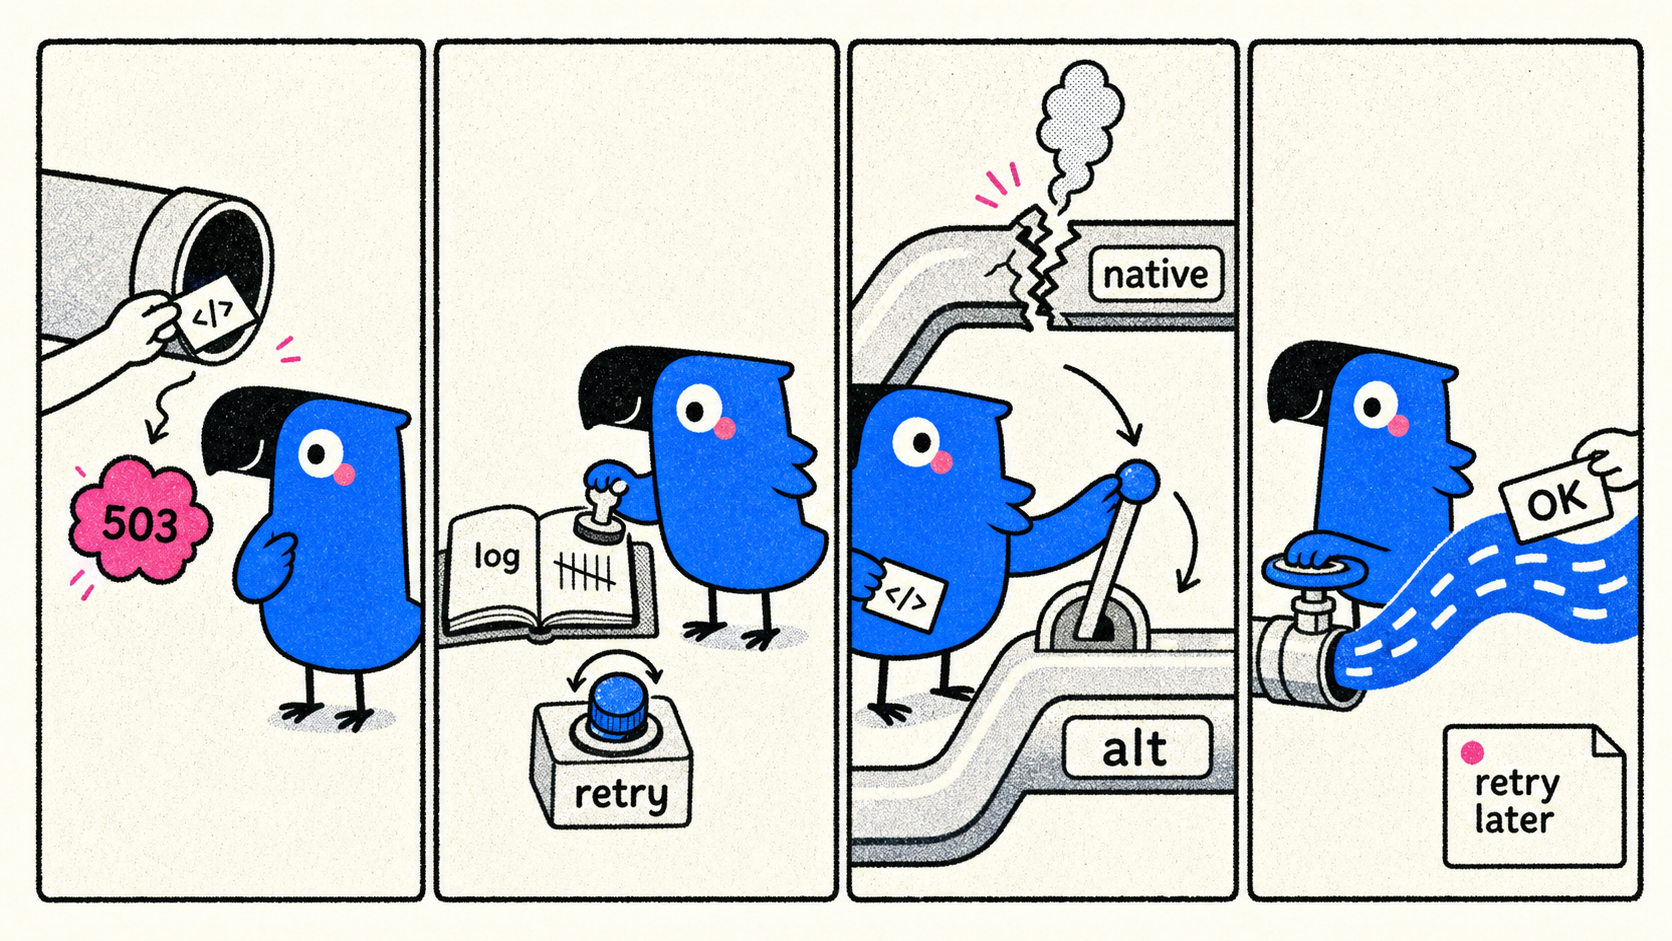
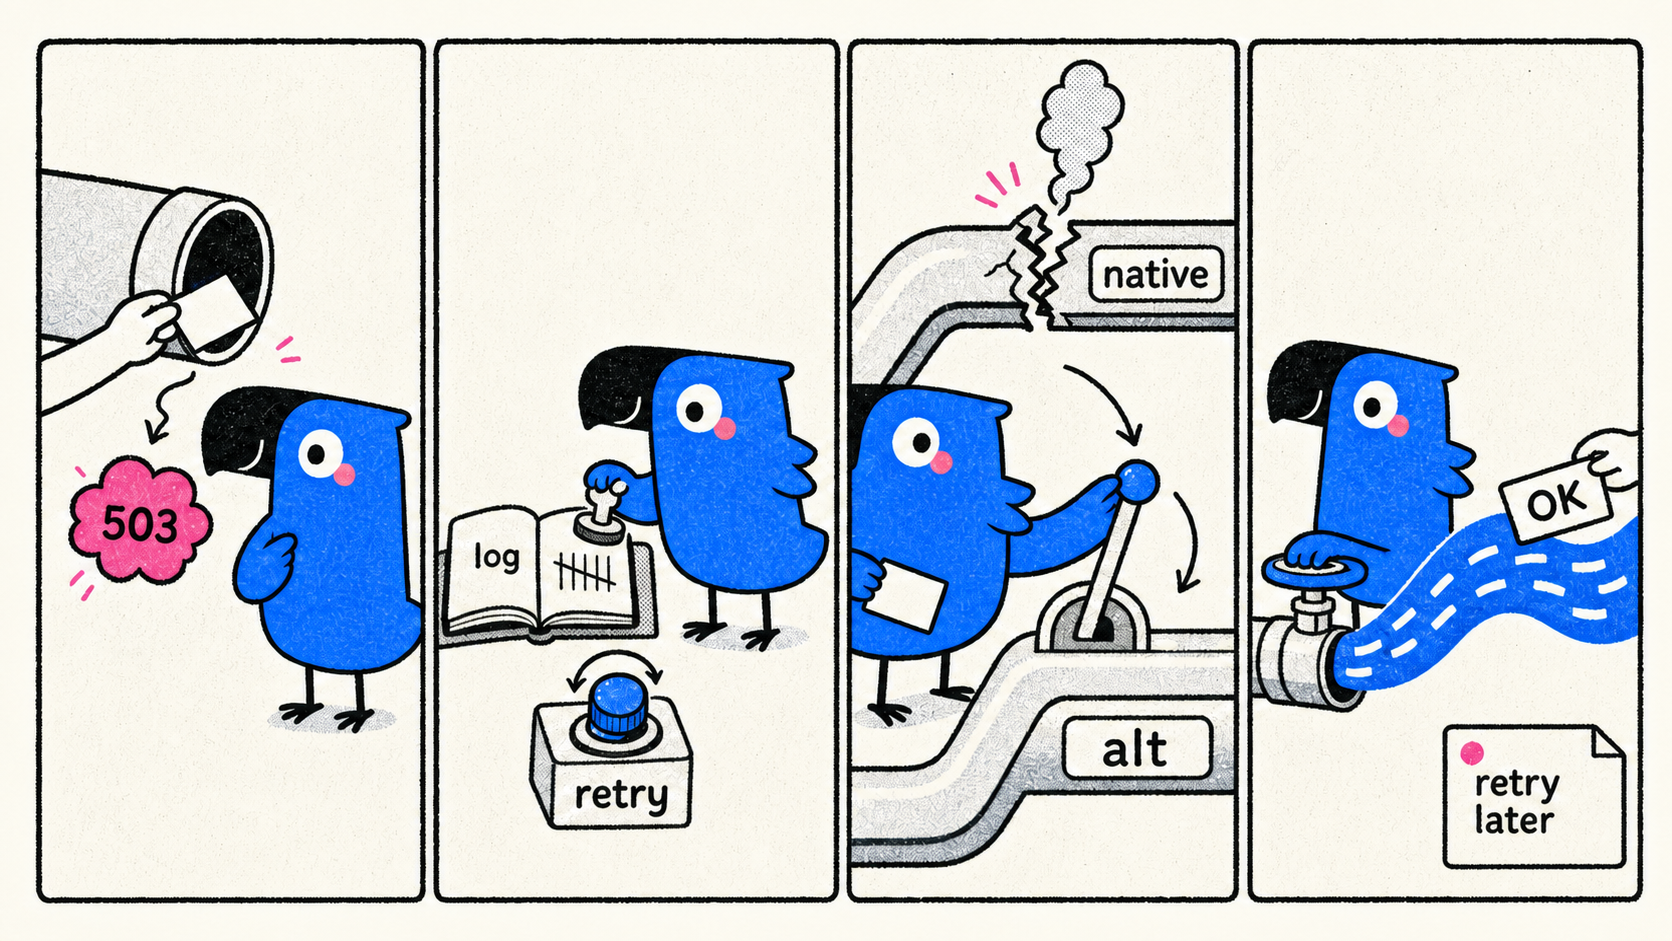
docs(readme): 说明思考参数转换

diff --git a/README.md b/README.md
@@ -1,7 +1,5 @@
 # MAAS Lifeboat
 
-![MAAS Lifeboat four-panel banner](assets/readme-banner/maas-gateway-four-panel-comic.png)
-
 中文 | [English](README.en.md)
 
 MAAS Lifeboat 是一层本地救生网关，放在你的客户端和 MAAS coding provider 之间。
@@ -52,6 +50,7 @@ MAAS Lifeboat 是一层本地救生网关，放在你的客户端和 MAAS coding
 | 跨接口 fallback | OpenAI 客户端失败时可尝试 Anthropic 入口，反向也支持 |
 | Streaming 保护 | 上游 `200` 但迟迟没有首个 chunk 时，不急着把响应提交给客户端 |
 | 工具调用转换 | 支持 OpenAI `tool_calls` 和 Anthropic `tool_use` 的双向转换 |
+| 思考参数转换 | 跨接口 fallback 时保留 `options.enable_thinking`、`thinking`；`thinking` block 和 `reasoning_content` 支持双向转换 |
 | 可复算日志 | JSONL ledger 记录每次 attempt、queue/cooldown、Retry-After，不记录完整 prompt 或 key |
 | request-level proxy | 可配置代理，但不修改系统代理，不影响其他应用 |
 
@@ -140,6 +139,22 @@ PI agents provider 示例：
 ```
 
 默认模型元数据按当前观测的 GLM 5.2 / Astron Code 设置：500k context window，131072 max output tokens。若 provider 调整限制，可用 `MAAS_CONTEXT_WINDOW` 和 `MAAS_MAX_TOKENS` 覆盖。
+
+如果客户端支持请求覆盖，可以为 `astron-code-latest` 加上思考参数。gateway 会在 OpenAI/Anthropic fallback 转换时保留这些字段：
+
+```json
+{
+  "options": {
+    "enable_thinking": true
+  },
+  "thinking": {
+    "type": "enabled",
+    "budget_tokens": 64000
+  }
+}
+```
+
+非流式响应里，Anthropic `thinking` block 会映射为 OpenAI-compatible `message.reasoning_content`；反向也会从 `reasoning_content` 映射回 Anthropic `thinking` block。流式响应里，对应映射为 `delta.reasoning_content` 和 Anthropic `thinking_delta`。
 
 ## macOS 用户服务
 
@@ -272,6 +287,6 @@ python3 -m compileall -q gateway experiments
 ## 当前限制
 
 - 上游 stream 已经给客户端发出 chunk 后，不能无损切换到另一个 completion。
-- streaming 转换覆盖 text 和 tool-call delta；复杂 multimodal streaming 未覆盖。
+- streaming 转换覆盖 text、tool-call 和 thinking delta；复杂 multimodal streaming 未覆盖。
 - 成功率最终受上游容量限制。gateway 能改善瞬时失败处理，但不能修复账号级或 provider-wide 饱和。
 - route/proxy 只作为 request-level 实验变量；当前证据不能证明换 IP 会稳定修复 `503/10310`。